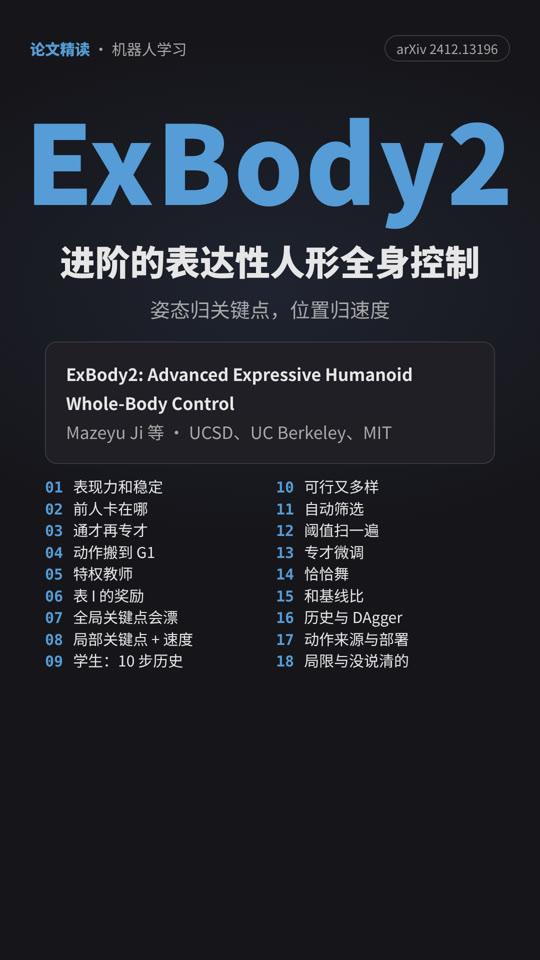
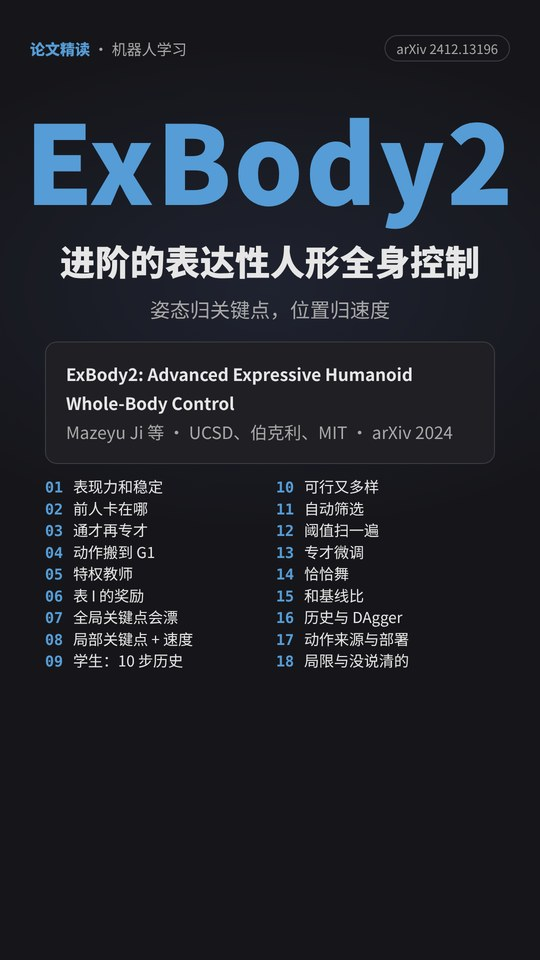
fix(Video): ExBody2 封面与片头的论文信息补上年份（arXiv 2024）
Claude-Session: https://claude.ai/code/session_01UcVywNpvg8Nh17zXgoxAQV

diff --git a/scripts/paper_video/papers/exbody2.js b/scripts/paper_video/papers/exbody2.js
@@ -8,7 +8,7 @@ window.PaperVideo = {
     var b = h('div', 'big', root, '<div style="font-size:52px;font-weight:900;line-height:1.2">进阶的表达性人形全身控制</div>' +
       '<div style="font-size:32px;color:var(--text-secondary);margin-top:8px">姿态归关键点，位置归速度</div>');
     var m = h('div', 'meta', root,
-      '<b>ExBody2: Advanced Expressive Humanoid Whole-Body Control</b><br>Mazeyu Ji 等 · UCSD、UC Berkeley、MIT');
+      '<b>ExBody2: Advanced Expressive Humanoid Whole-Body Control</b><br>Mazeyu Ji 等 · UCSD、伯克利、MIT · arXiv&nbsp;2024');
     m.style.fontSize = '27px';
     m.style.padding = '22px 34px';
     /* 十八条目录排成两列：左列 01–09、右列 10–18，单列的话封面上最后一行会落到 3:4 裁剪线以下 */
